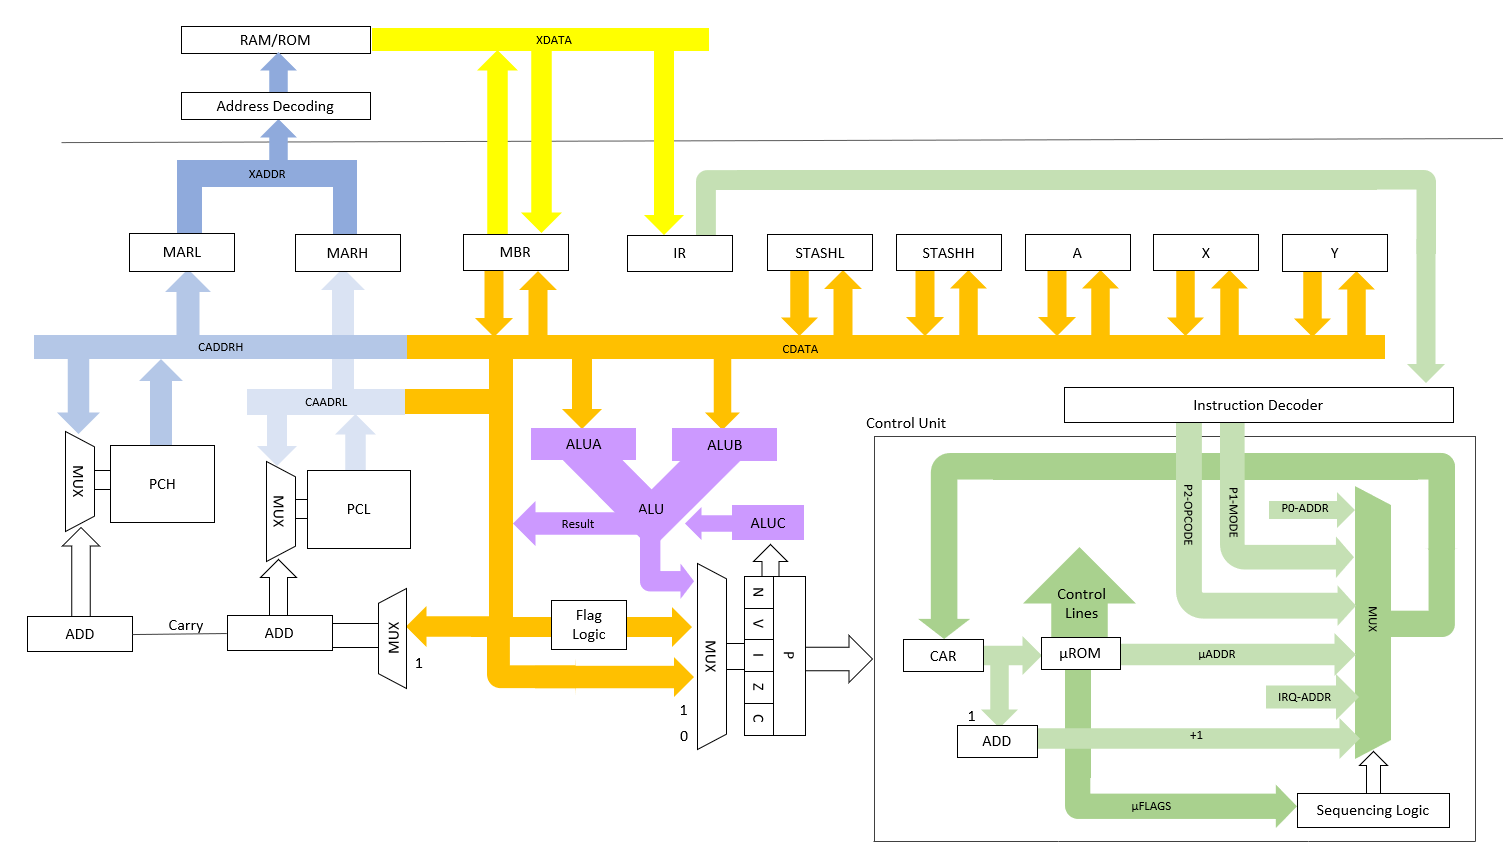
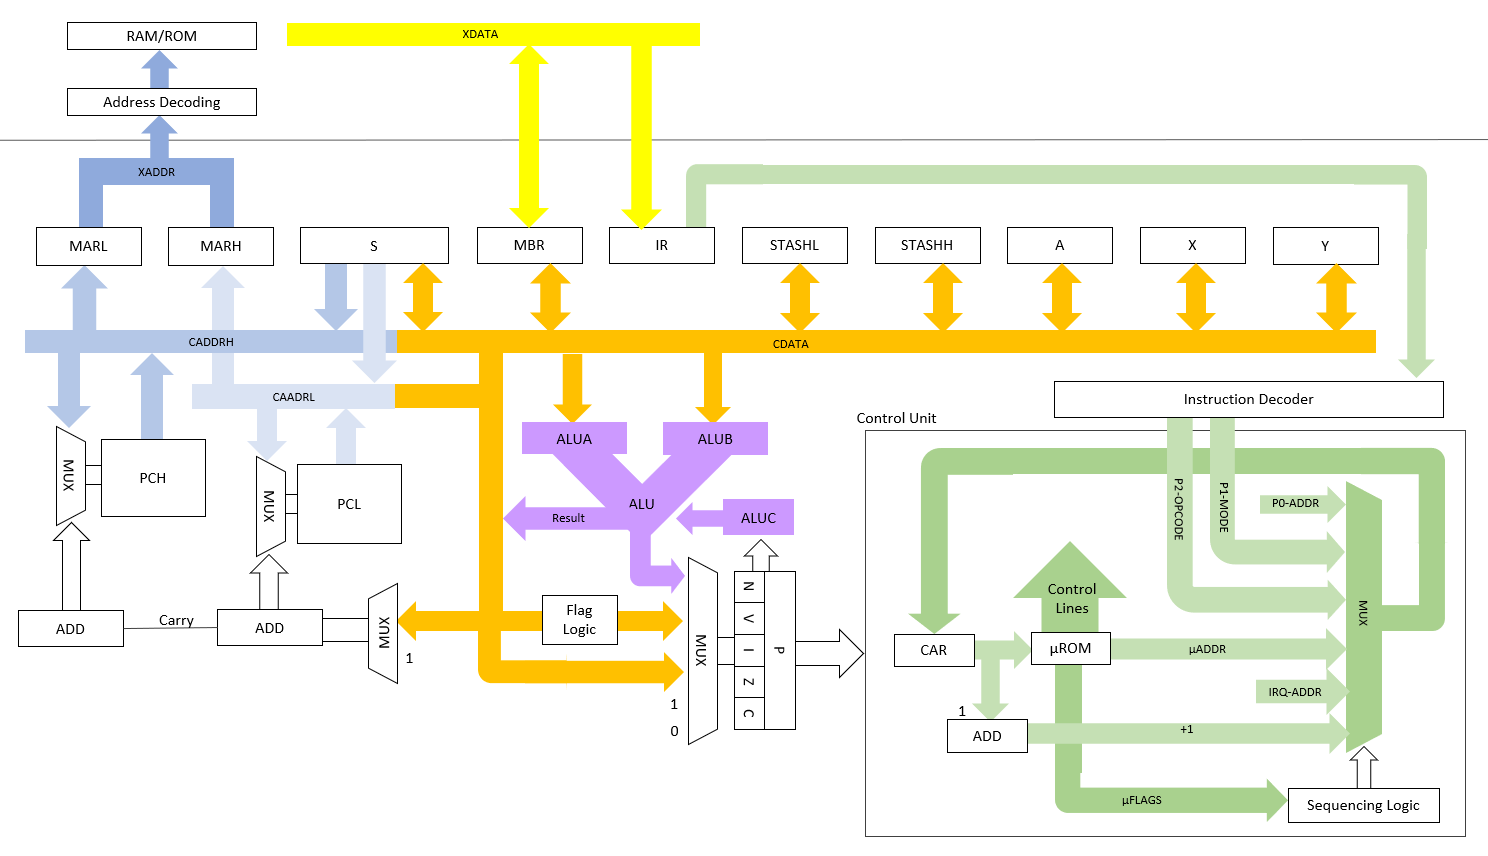
Updated overview diagram

Changed region(s): [[0.0, 0.0, 0.9892, 0.9835]]

diff --git a/docs/TODO.md b/docs/TODO.md
@@ -1,6 +1,5 @@
 # TO DO
 
-* Add S register to overview diagram
 * Revisit size of uCode ROM
 * ALU
   * Consider design of ALU flag handling, can this be simplified?
